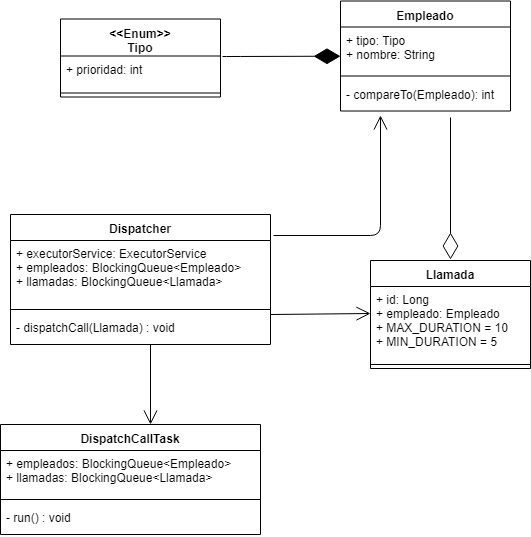
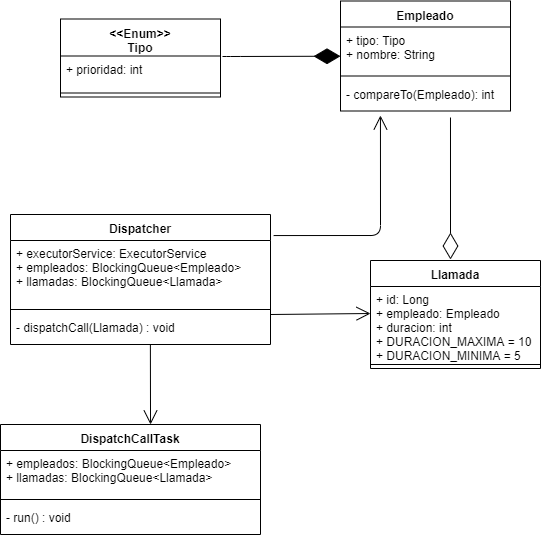
Mejoras en la ddt

diff --git a/src/main/java/com/ejercicio/callcenter/domain/Llamada.java b/src/main/java/com/ejercicio/callcenter/domain/Llamada.java
@@ -8,8 +8,8 @@ import lombok.Setter;
 @Setter
 public class Llamada {
 
-    private static final int MAX_DURATION = 5;
-    private static final int MIN_DURATION = 10;
+    private static final int DURACION_MINIMA = 5;
+    private static final int DURACION_MAXIMA = 10;
 
     private Long id;
     private int duracion;
@@ -18,7 +18,7 @@ public class Llamada {
     public Llamada(Long id) {
         this.id = id;
         Random random = new Random();
-        this.duracion = random.nextInt(MIN_DURATION - MAX_DURATION) + MAX_DURATION;
+        this.duracion = random.nextInt(DURACION_MAXIMA - DURACION_MINIMA) + DURACION_MINIMA;
     }
 
 }
